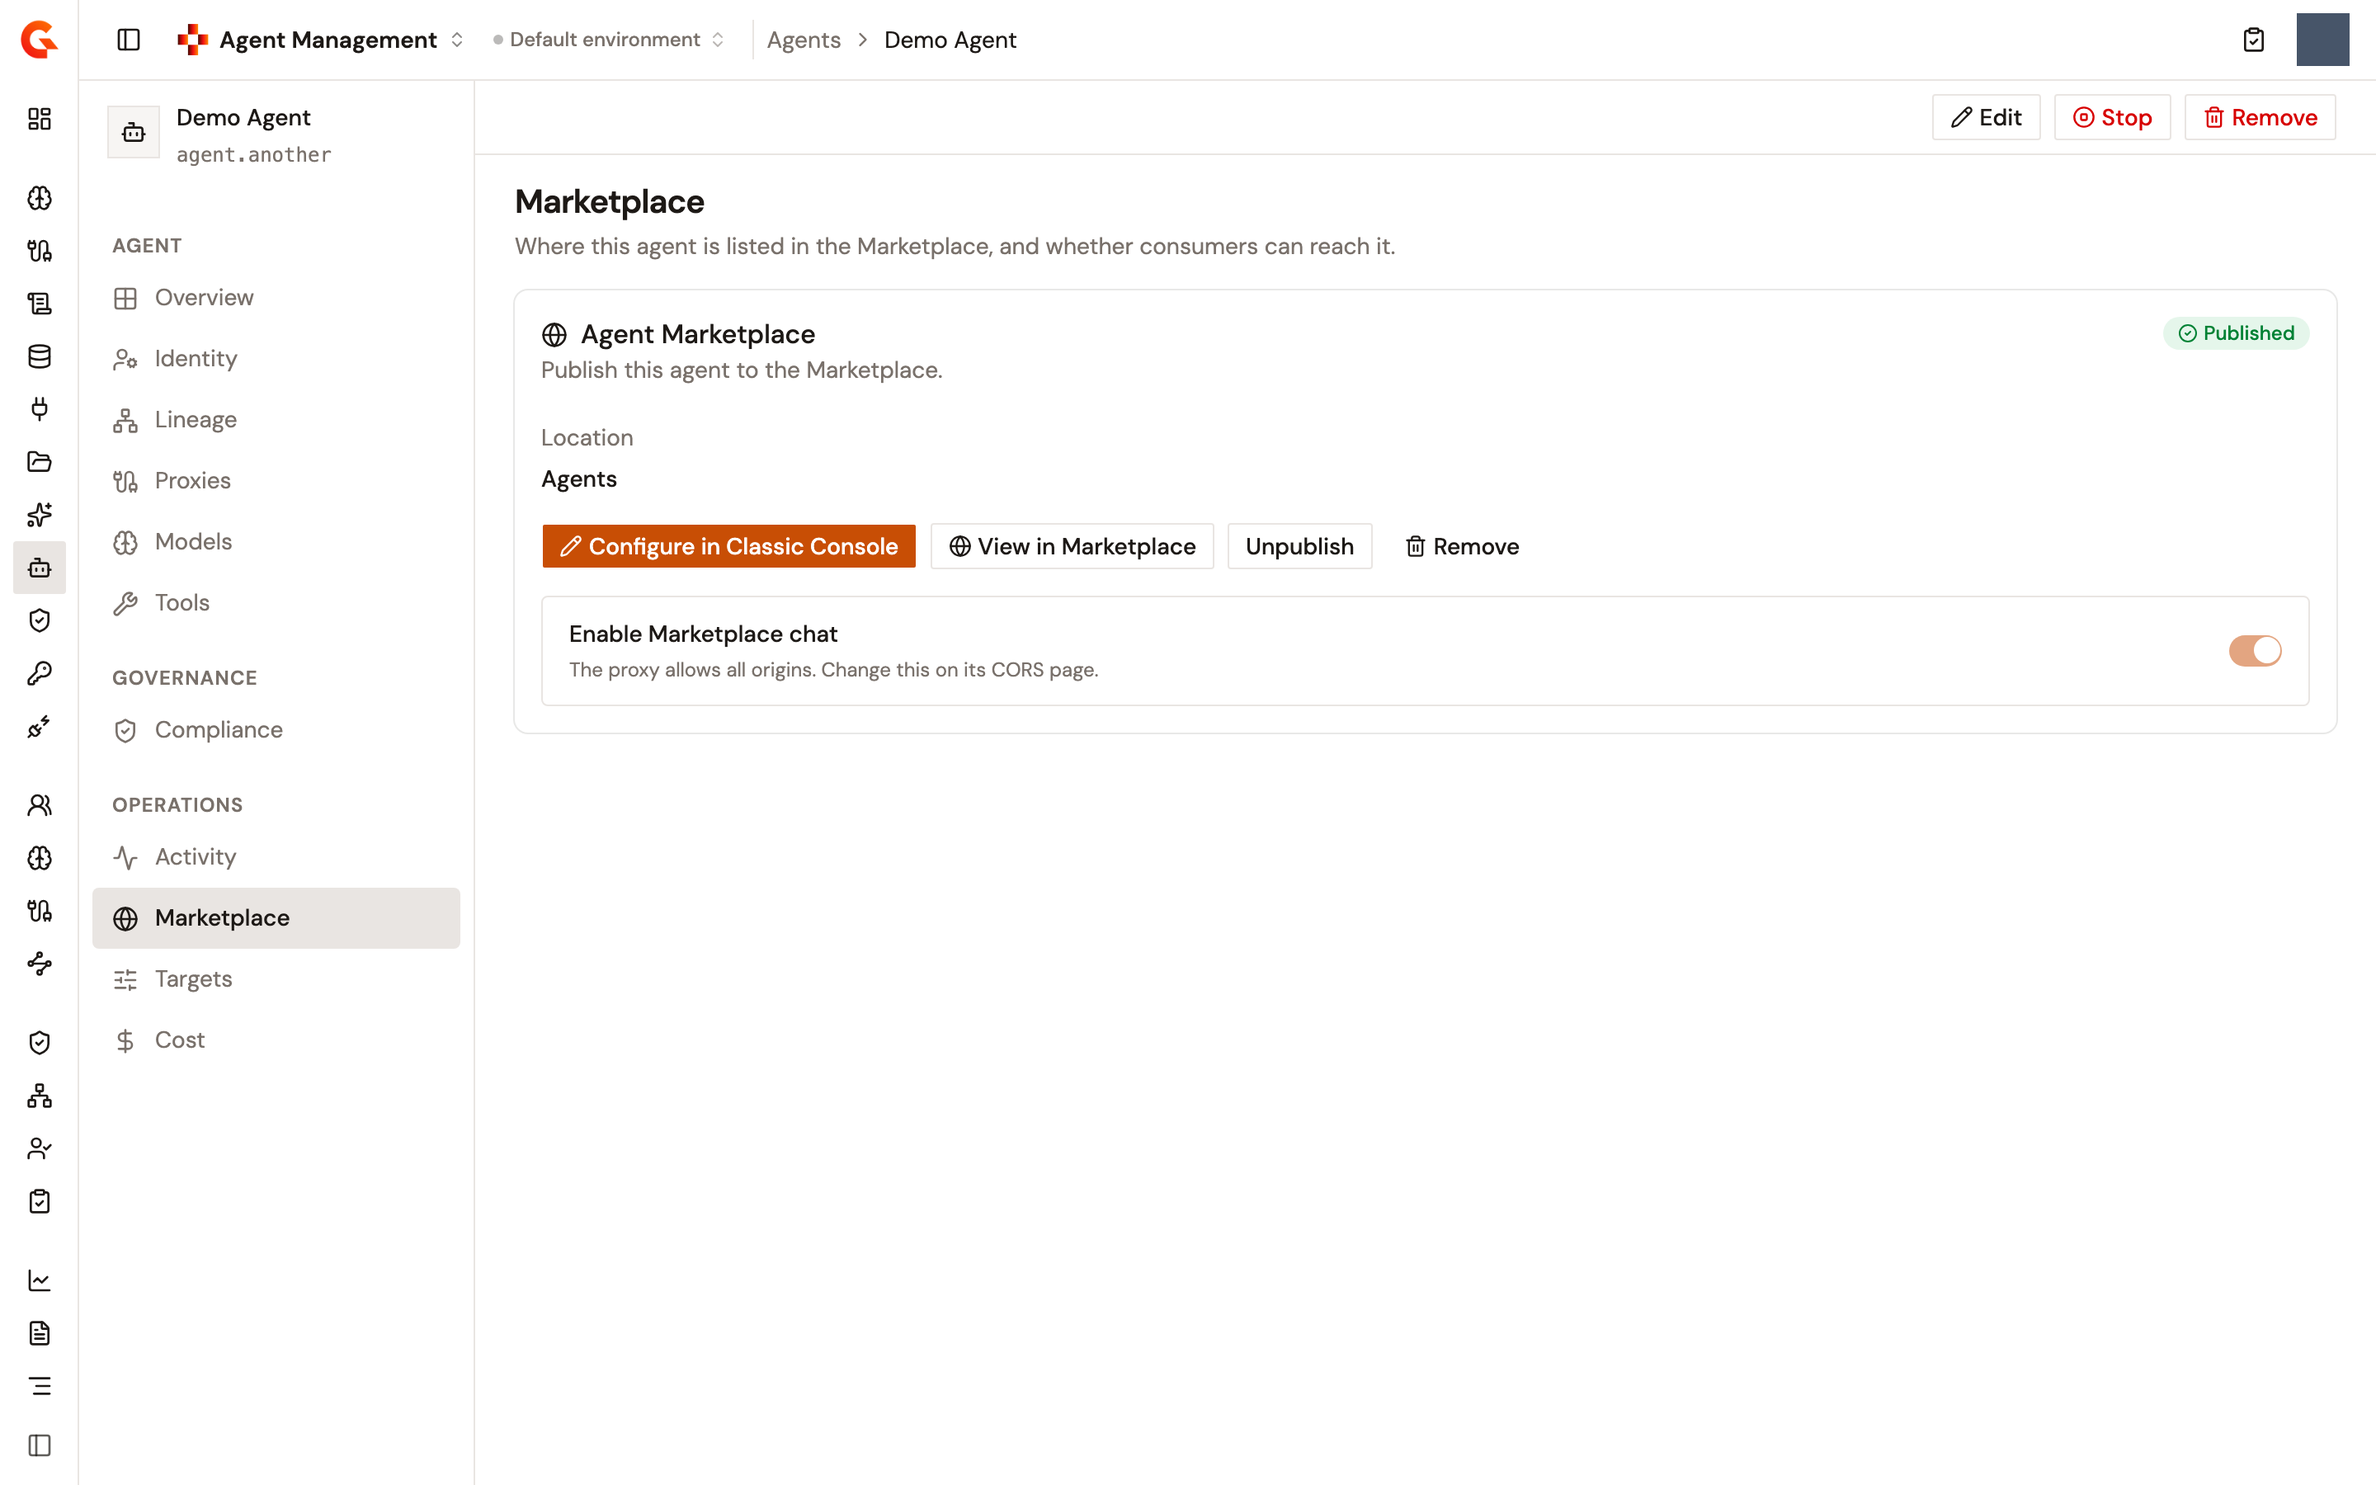
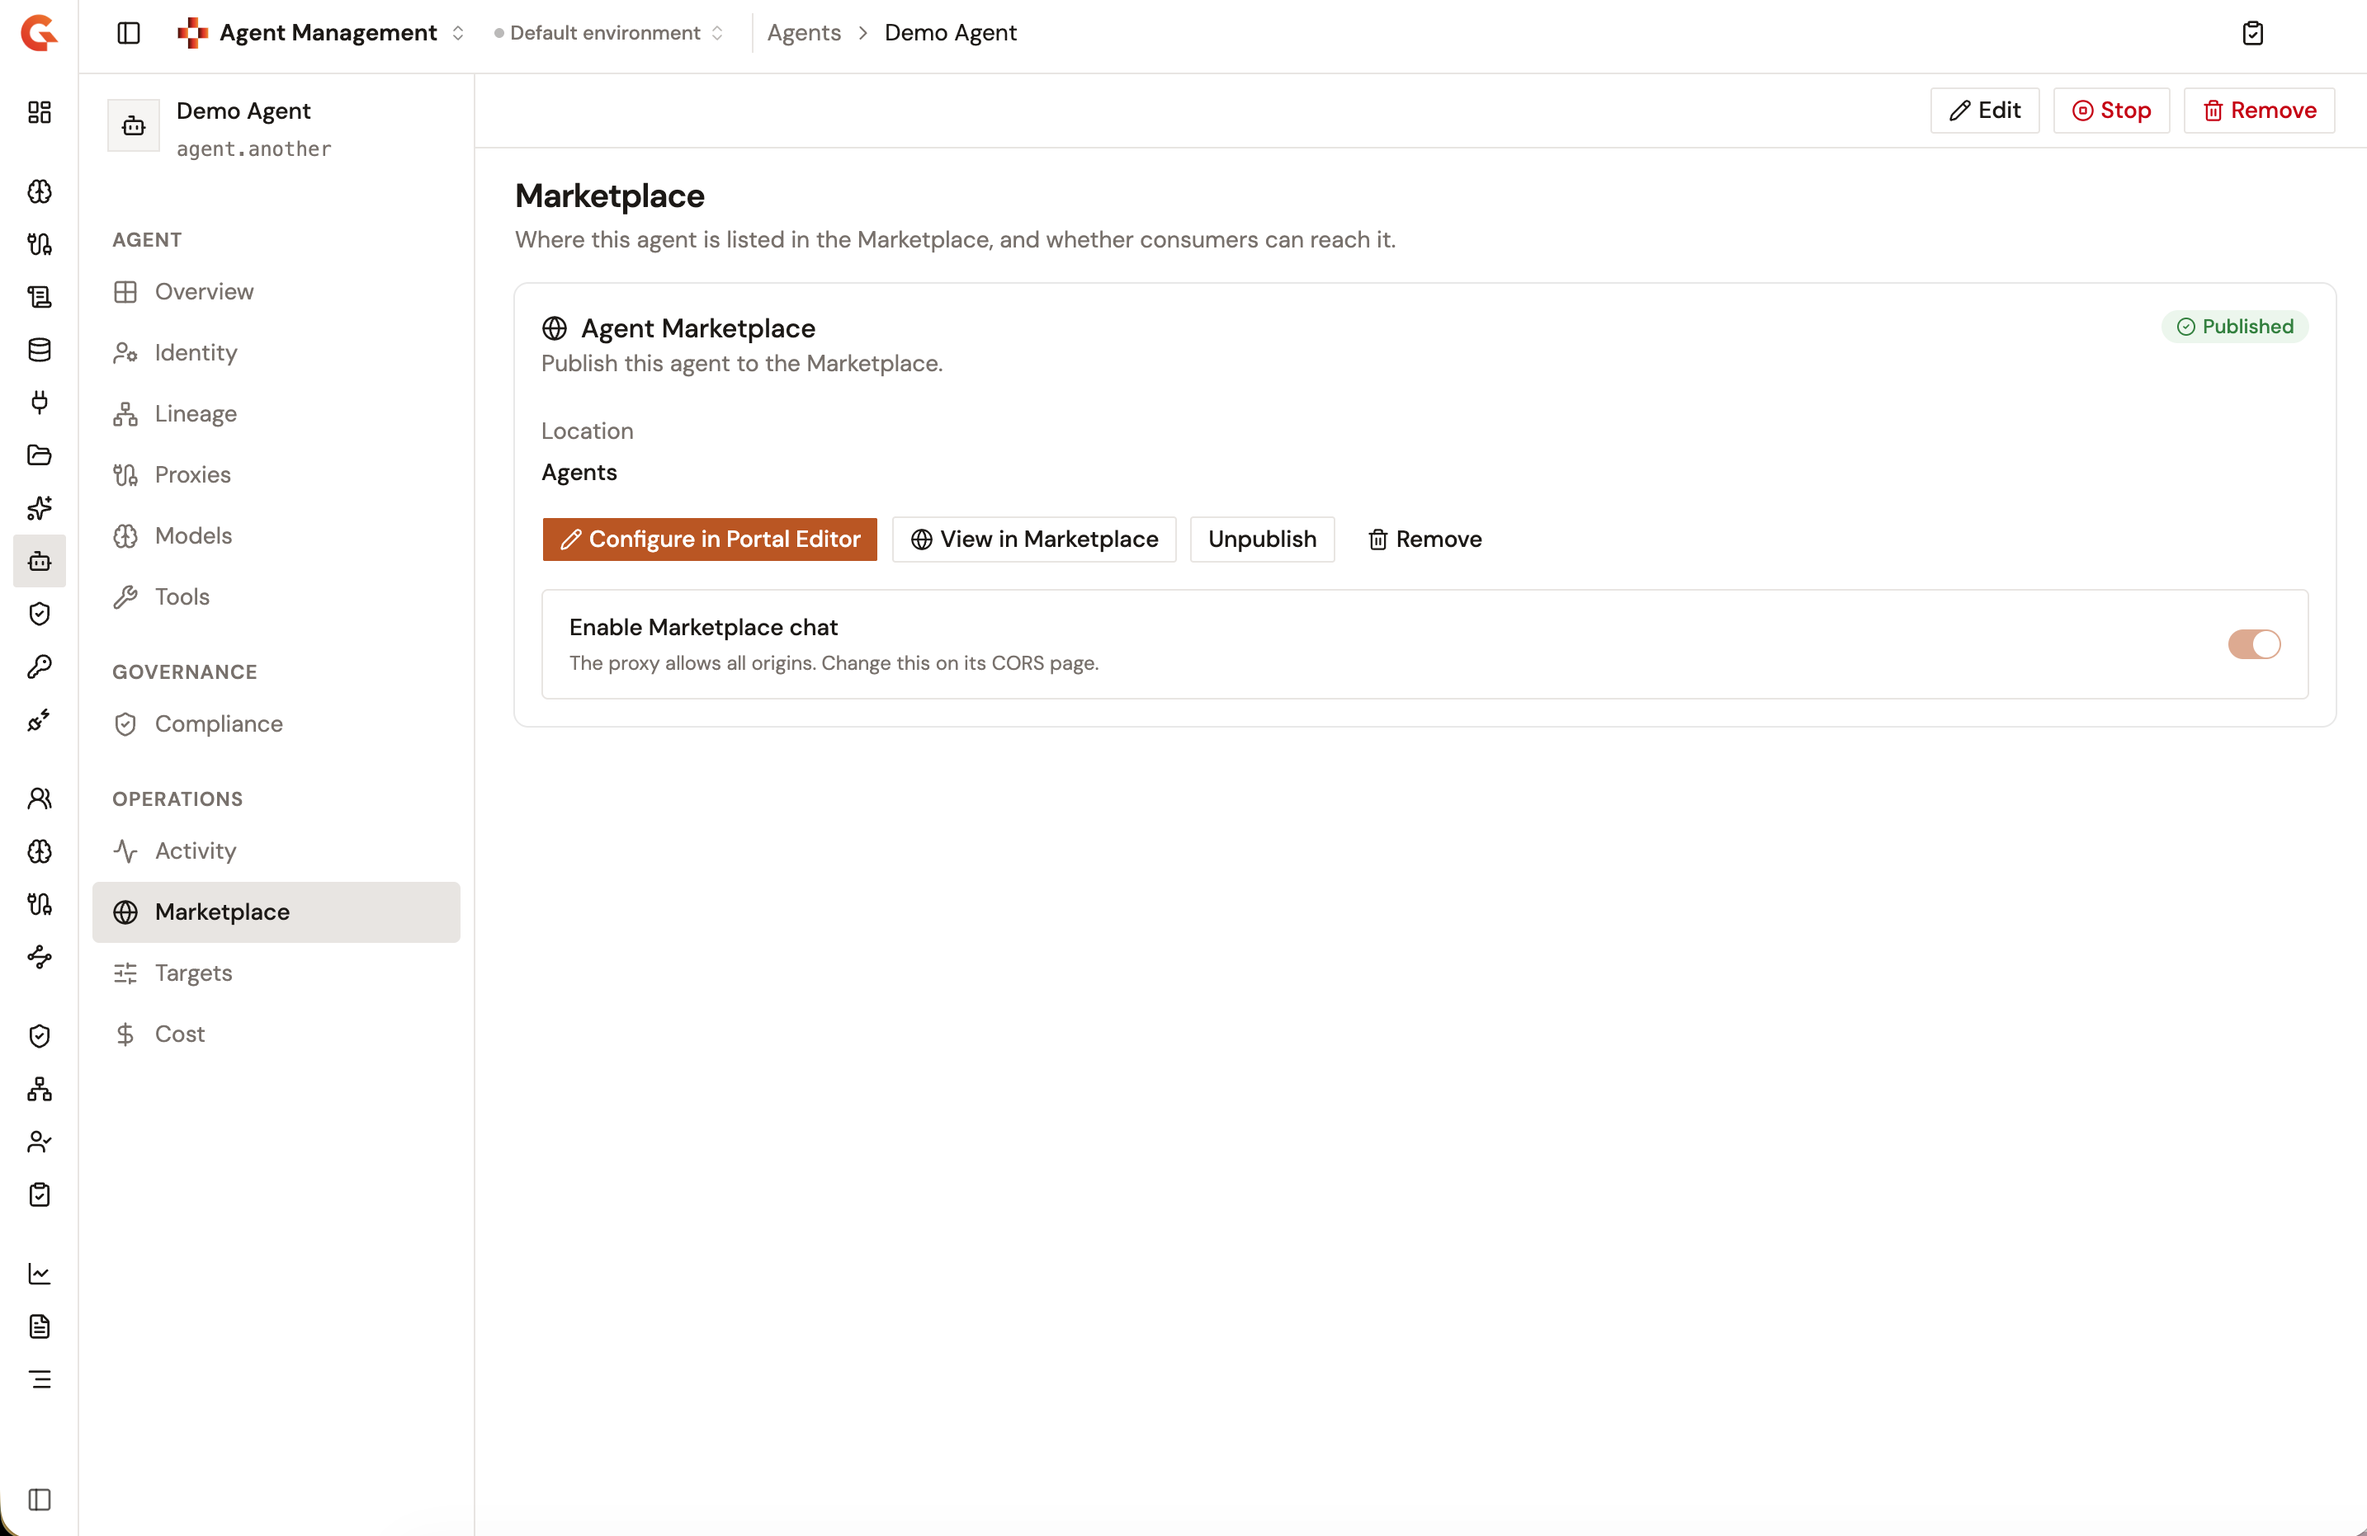
docs(gamma): show the Marketplace card with the renamed editor button (AIAM-429)
Replaces the Marketplace screenshot with one a reviewer supplied from a build
that renames the editor button, and sweeps the label in the prose and the alt
text to match it. The build the AMP demo loads (aim 4.3.0-beta.82) still
renders the previous label, and the open rename in the module proposes a third
string; the PR body records all three.

diff --git a/docs/gamma/4.12/agent-management/publish/publish-your-agent-to-the-developer-portal.md b/docs/gamma/4.12/agent-management/publish/publish-your-agent-to-the-developer-portal.md
@@ -23,13 +23,13 @@ A registered agent's **Marketplace** page lists the agent in the Developer Porta
 5. In the **Agent Marketplace** card, under **Location**, select the navigation item to list the agent under, or select **+ Create new location** and type a folder name under **New location name**. A new location becomes a top-level folder in the portal navigation.
 6. Click **Publish**.
 
-The listing is titled with the agent's name, and a **&lt;agent&gt; is now in the Marketplace** notification appears. The card then carries a **Published** badge. It offers **Configure in Classic Console**, which opens the navigation editor in a new tab, **View in Marketplace**, which opens the listing in the portal, **Unpublish**, and **Remove**. When the section above the listing isn't published, the card warns that consumers can't reach the agent yet.
+The listing is titled with the agent's name, and a **&lt;agent&gt; is now in the Marketplace** notification appears. The card then carries a **Published** badge. It offers **Configure in Portal Editor**, which opens the navigation editor in a new tab, **View in Marketplace**, which opens the listing in the portal, **Unpublish**, and **Remove**. When the section above the listing isn't published, the card warns that consumers can't reach the agent yet.
 
 **Unpublish** hides the listing and keeps it in the navigation, so **Publish** brings it back in place, with an **Agent hidden from the Marketplace** or **Agent published to the Marketplace** notification. The badge reads **Unpublished** while the listing is hidden, and **Not published** before the agent is listed. **Remove** deletes the listing and the pages published under it from the navigation, after the **Remove this agent from the Marketplace?** dialog. The agent itself is left untouched, and an **Agent removed from the Marketplace** notification appears.
 
 Before a proxy is linked, the page reads **Nothing to list yet** and offers **Create proxy for the agent**, which opens the agent's **Proxies** page. An agent that publishes no A2A address reads **Not listable yet**.
 
-<figure><img src="../.gitbook/assets/gamma-aim-agent-marketplace-published.png" alt="The Marketplace page of an agent: the Agent Marketplace card with the Published badge, the Location field, the Configure in Classic Console, View in Marketplace, Unpublish, and Remove buttons, and the Enable Marketplace chat toggle"><figcaption><p>The Marketplace page of an agent after it was published</p></figcaption></figure>
+<figure><img src="../.gitbook/assets/gamma-aim-agent-marketplace-published.png" alt="The Marketplace page of an agent: the Agent Marketplace card with the Published badge, the Location field, the Configure in Portal Editor, View in Marketplace, Unpublish, and Remove buttons, and the Enable Marketplace chat toggle"><figcaption><p>The Marketplace page of an agent after it was published</p></figcaption></figure>
 
 ## Add the agent to the navigation from the APIM Console
 
